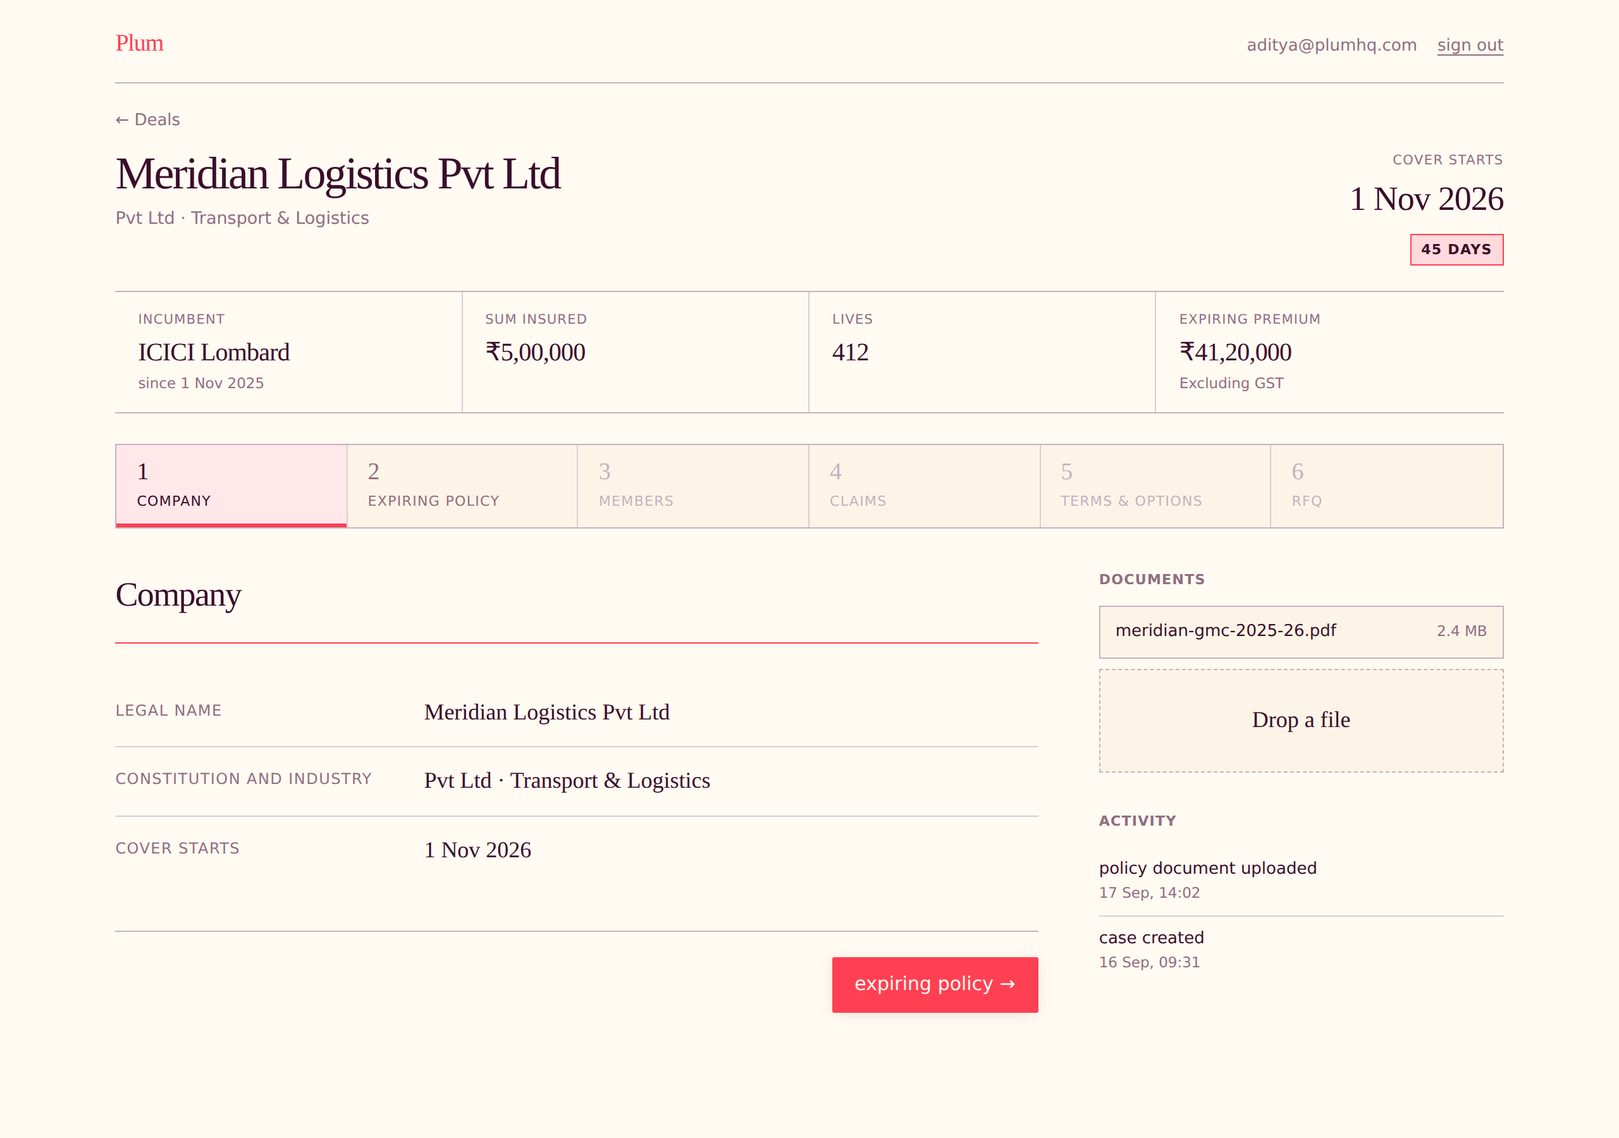
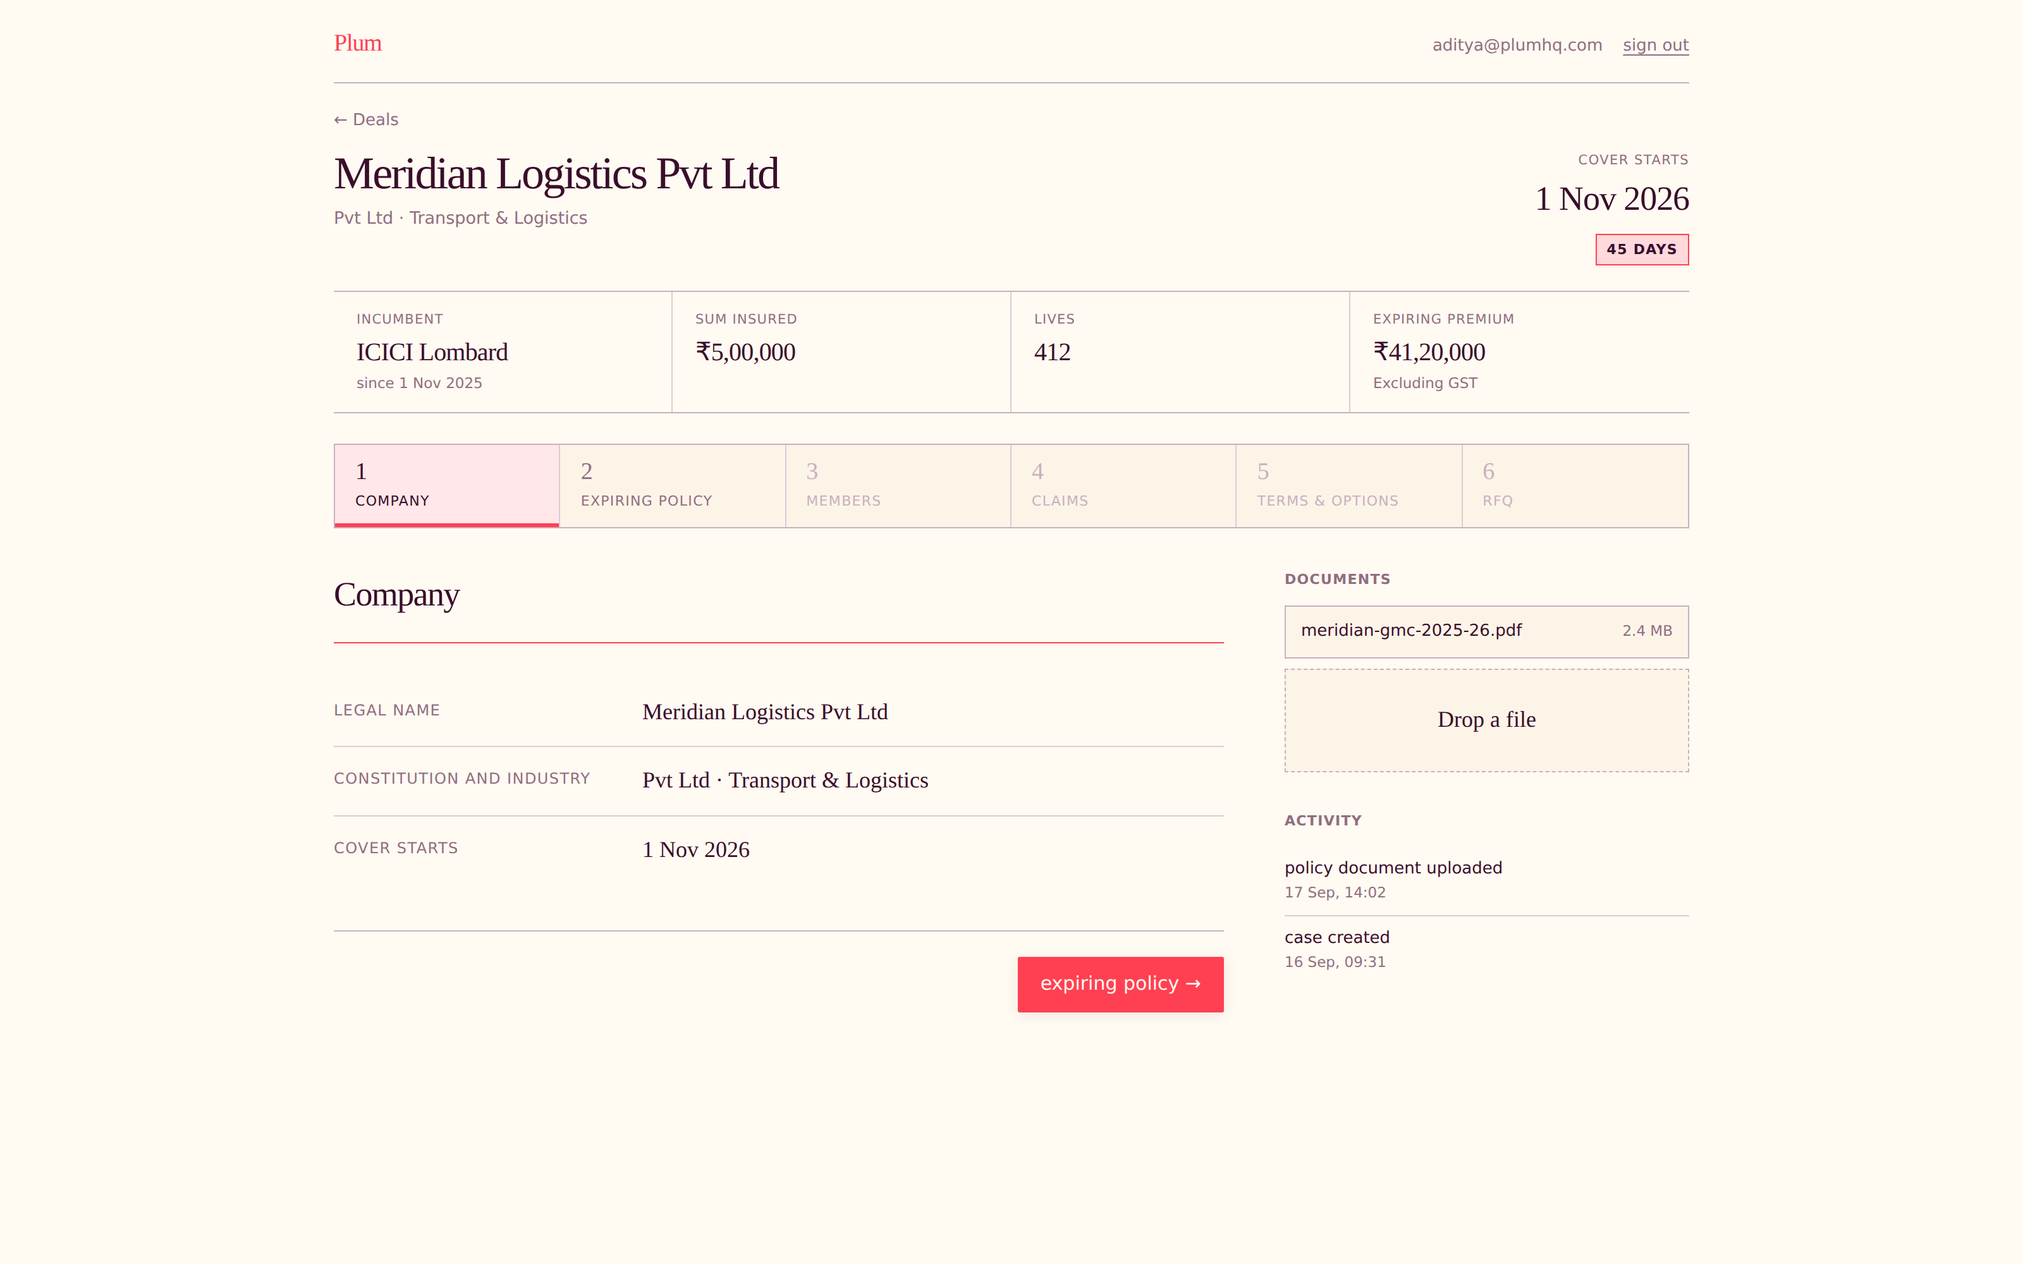
Give the terms step the width its grid and the policy both need
The policy panel was missing from the rendered mockup because a patch to that
HTML matched nothing and failed silently — the file was never updated. The
application code had the panel throughout; the picture was wrong, not the build.
Rewritten wholesale rather than patched, so it cannot happen again quietly.

Fixing the render exposed a real constraint. A benefit label, the expiring value
and one column per option need roughly 790px before the policy is placed beside
them; the standard column left about 700px, so the grid would have scrolled
horizontally from the first option onwards. That is precisely where a value gets
read against the wrong column, which is the misreading this screen exists to
prevent and the reason the whole table is one CSS grid.

So the terms step widens: a 1480px shell and a 420px reference column, enough
for the policy to be readable rather than merely present. Both collapse to a
single column below 1240px.

Claude-Session: https://claude.ai/code/session_01GTNhrhZnfcdGDqUXckdAkA

diff --git a/docs/design-review/05-terms-built.html b/docs/design-review/05-terms-built.html
@@ -1,151 +1,70 @@
-<!doctype html>
-<html lang="en-GB">
-  <head>
-    <meta charset="utf-8" />
-    <link rel="stylesheet" href="../../src/styles/plum.css" />
-    <style>
-      body {
-        padding: 0;
-      }
-    </style>
-  </head>
-  <body>
-    <main class="shell">
-      <header class="masthead">
-        <span class="masthead__mark">Plum</span>
-        <span class="masthead__right"
-          ><span class="masthead__meta">aditya@plumhq.com</span
-          ><span class="masthead__signout">sign out</span></span
-        >
-      </header>
-      <div class="crumb"><a>← Meridian Logistics Pvt Ltd</a></div>
-      <nav class="wiz">
-        <a class="is-done"><span class="wiz__n">1</span><span class="wiz__t">Company</span></a>
-        <a class="is-done"
-          ><span class="wiz__n">2</span><span class="wiz__t">Expiring policy</span></a
-        >
-        <a class="is-done"><span class="wiz__n">3</span><span class="wiz__t">Members</span></a>
-        <a class="is-done"><span class="wiz__n">4</span><span class="wiz__t">Claims</span></a>
-        <a class="is-now"
-          ><span class="wiz__n">5</span><span class="wiz__t">Terms &amp; options</span></a
-        >
-        <a><span class="wiz__n">6</span><span class="wiz__t">RFQ</span></a>
-      </nav>
-      <section class="section">
-        <div class="section__head">
-          <h1>Terms</h1>
-          <span style="font-size: 13px; color: var(--fg-2)">24 of 58 confirmed</span>
-        </div>
-        <div style="margin-top: 24px">
-          <div class="terms">
-            <div
-              class="terms__grid"
-              style="
-                grid-template-columns: minmax(190px, 1.3fr) minmax(150px, 1.4fr) minmax(
-                    150px,
-                    1.4fr
-                  ) minmax(150px, 1.4fr) minmax(150px, 1.4fr);
-              "
-            >
-              <div class="terms__head">
-                <div>Benefit</div>
-                <div>Expiring</div>
-                <div>
-                  Option 1<span class="opt-name">Same as expiring</span
-                  ><button class="terms__rename">rename</button>
-                </div>
-                <div>
-                  Option 2<span class="opt-name">Enhanced maternity</span
-                  ><button class="terms__rename">rename</button>
-                </div>
-                <div>
-                  Option 3<span class="opt-name">Siblings in place of parents</span
-                  ><button class="terms__rename">rename</button>
-                </div>
-              </div>
-
-              <button class="terms__section">
-                <span class="terms__caret">▾</span
-                ><span class="terms__section-name">The basics</span
-                ><span class="terms__section-count">8 benefits · 3 changed</span>
-              </button>
-              <div class="terms__cell terms__cell--label">Members Covered</div>
-              <div class="terms__cell">Employee, Spouse, Children, Parents</div>
-              <div class="terms__cell"><span class="terms__same">same as expiring</span></div>
-              <div class="terms__cell"><span class="terms__same">same as expiring</span></div>
-              <div class="terms__cell terms__cell--changed">
-                Employee, Spouse, Children, Siblings
-              </div>
-              <div class="terms__cell terms__cell--label">LGBTQ Cover</div>
-              <div class="terms__cell">Covered</div>
-              <div class="terms__cell"><span class="terms__same">same as expiring</span></div>
-              <div class="terms__cell"><span class="terms__same">same as expiring</span></div>
-              <div class="terms__cell"><span class="terms__same">same as expiring</span></div>
-              <div class="terms__cell terms__cell--label">Siblings</div>
-              <div class="terms__cell">Not covered</div>
-              <div class="terms__cell"><span class="terms__same">same as expiring</span></div>
-              <div class="terms__cell"><span class="terms__same">same as expiring</span></div>
-              <div class="terms__cell terms__cell--changed">Covered, up to 2</div>
-              <div class="terms__cell terms__cell--label">Age Band</div>
-              <div class="terms__cell">91 days – 80 years</div>
-              <div class="terms__cell"><span class="terms__same">same as expiring</span></div>
-              <div class="terms__cell"><span class="terms__same">same as expiring</span></div>
-              <div class="terms__cell"><span class="terms__same">same as expiring</span></div>
-              <div class="terms__cell terms__cell--label">Max age — Parents</div>
-              <div class="terms__cell">80 years</div>
-              <div class="terms__cell"><span class="terms__same">same as expiring</span></div>
-              <div class="terms__cell terms__cell--changed">85 years</div>
-              <div class="terms__cell"><span class="terms__unset">not applicable</span></div>
-
-              <button class="terms__section">
-                <span class="terms__caret">▾</span
-                ><span class="terms__section-name">Mother &amp; Child</span
-                ><span class="terms__section-count">6 benefits · 2 changed</span>
-              </button>
-              <div class="terms__cell terms__cell--label">Maternity Cover</div>
-              <div class="terms__cell">₹50,000</div>
-              <div class="terms__cell"><span class="terms__same">same as expiring</span></div>
-              <div class="terms__cell terms__cell--changed">₹75,000</div>
-              <div class="terms__cell"><span class="terms__same">same as expiring</span></div>
-              <div class="terms__cell terms__cell--label">Pre and Post Natal Expenses</div>
-              <div class="terms__cell">Within maternity limit</div>
-              <div class="terms__cell"><span class="terms__same">same as expiring</span></div>
-              <div class="terms__cell terms__cell--changed">₹15,000 outside limit</div>
-              <div class="terms__cell"><span class="terms__same">same as expiring</span></div>
-              <div class="terms__cell terms__cell--label">Well Mother / Well Baby</div>
-              <div class="terms__cell">Not covered</div>
-              <div class="terms__cell"><span class="terms__same">same as expiring</span></div>
-              <div class="terms__cell"><span class="terms__same">same as expiring</span></div>
-              <div class="terms__cell"><span class="terms__same">same as expiring</span></div>
-
-              <button class="terms__section">
-                <span class="terms__caret">▸</span
-                ><span class="terms__section-name">Sum insured, limits &amp; copay</span
-                ><span class="terms__section-count">12 benefits · 1 changed · 4 to confirm</span>
-              </button>
-              <button class="terms__section">
-                <span class="terms__caret">▸</span
-                ><span class="terms__section-name">Expenses covered</span
-                ><span class="terms__section-count">9 benefits</span>
-              </button>
-              <button class="terms__section">
-                <span class="terms__caret">▸</span
-                ><span class="terms__section-name">Additional Covers</span
-                ><span class="terms__section-count">11 benefits · 30 to confirm</span>
-              </button>
-            </div>
-          </div>
-        </div>
-        <div class="terms__foot">
-          <span style="font-size: 13px; color: var(--fg-2)"
-            >34 benefits still to confirm before this can go to insurers.</span
-          >
-          <span
-            ><button class="terms__addopt">+ add an option</button>
-            <button class="button" disabled>send to insurers</button></span
-          >
-        </div>
-      </section>
-    </main>
-  </body>
-</html>
+<!doctype html><html lang="en-GB"><head><meta charset="utf-8">
+<link rel="stylesheet" href="../../src/styles/plum.css"></head><body>
+<main class="shell shell--wide">
+  <header class="masthead"><span class="masthead__mark">Plum</span>
+    <span class="masthead__right"><span class="masthead__meta">aditya@plumhq.com</span><span class="masthead__signout">sign out</span></span>
+  </header>
+  <div class="crumb"><a>← Deals</a></div>
+  <div class="deal-hero">
+    <div><h1>Meridian Logistics Pvt Ltd</h1><p class="deal-hero__what">Pvt Ltd · Transport &amp; Logistics</p></div>
+    <div class="deal-hero__start"><div class="label">Cover starts</div><div class="date">1 Nov 2026</div>
+      <div style="margin-top:5px"><span class="chip chip--waiting">45 days</span></div></div>
+  </div>
+  <div class="facts">
+    <div class="facts__item"><div class="facts__label">Incumbent</div><div class="facts__value">ICICI Lombard</div><div class="facts__note">since 1 Nov 2025</div></div>
+    <div class="facts__item"><div class="facts__label">Sum insured</div><div class="facts__value">₹5,00,000</div></div>
+    <div class="facts__item"><div class="facts__label">Lives</div><div class="facts__value">412</div></div>
+    <div class="facts__item"><div class="facts__label">Expiring premium</div><div class="facts__value">₹41,20,000</div><div class="facts__note">Excluding GST</div></div>
+  </div>
+  <nav class="wiz">
+    <a class="is-done"><span class="wiz__n">1</span><span class="wiz__t">Company</span></a>
+    <a class="is-done"><span class="wiz__n">2</span><span class="wiz__t">Expiring policy</span></a>
+    <a class="is-done"><span class="wiz__n">3</span><span class="wiz__t">Members</span></a>
+    <a class="is-done"><span class="wiz__n">4</span><span class="wiz__t">Claims</span></a>
+    <a class="is-now"><span class="wiz__n">5</span><span class="wiz__t">Terms &amp; options</span></a>
+    <span class="wiz__locked"><span class="wiz__n">6</span><span class="wiz__t">RFQ</span></span>
+  </nav>
+  <div class="step step--wide-aside">
+   <div class="step__main">
+    <h2>Terms and options</h2><hr class="section__rule">
+    <div class="terms"><div class="terms__grid" style="grid-template-columns:minmax(190px,1.3fr) minmax(150px,1.4fr) minmax(150px,1.4fr) minmax(150px,1.4fr) minmax(150px,1.4fr)">
+      <div class="terms__head"><div>Benefit</div><div>Expiring</div><div>Option 1<span class="opt-name">Same as expiring</span><button class="terms__rename">rename</button></div><div>Option 2<span class="opt-name">Enhanced maternity</span><button class="terms__rename">rename</button></div><div>Option 3<span class="opt-name">Siblings in place of parents</span><button class="terms__rename">rename</button></div></div>
+      <button class="terms__section"><span class="terms__caret">▾</span><span class="terms__section-name">The basics</span><span class="terms__section-count">8 benefits · 3 changed</span></button>
+        <div class="terms__cell terms__cell--label">Members Covered</div><div class="terms__cell">Employee, Spouse, Children, Parents</div><div class="terms__cell"><span class="terms__same">same as expiring</span></div><div class="terms__cell"><span class="terms__same">same as expiring</span></div><div class="terms__cell terms__cell--changed">Employee, Spouse, Children, Siblings</div>
+        <div class="terms__cell terms__cell--label">LGBTQ Cover</div><div class="terms__cell">Covered</div><div class="terms__cell"><span class="terms__same">same as expiring</span></div><div class="terms__cell"><span class="terms__same">same as expiring</span></div><div class="terms__cell"><span class="terms__same">same as expiring</span></div>
+        <div class="terms__cell terms__cell--label">Live-in Partner Cover</div><div class="terms__cell">Covered</div><div class="terms__cell"><span class="terms__same">same as expiring</span></div><div class="terms__cell"><span class="terms__same">same as expiring</span></div><div class="terms__cell"><span class="terms__same">same as expiring</span></div>
+        <div class="terms__cell terms__cell--label">Siblings</div><div class="terms__cell">Not covered</div><div class="terms__cell"><span class="terms__same">same as expiring</span></div><div class="terms__cell"><span class="terms__same">same as expiring</span></div><div class="terms__cell terms__cell--changed">Covered, up to 2</div>
+        <div class="terms__cell terms__cell--label">Age Band</div><div class="terms__cell">91 days – 80 years</div><div class="terms__cell"><span class="terms__same">same as expiring</span></div><div class="terms__cell"><span class="terms__same">same as expiring</span></div><div class="terms__cell"><span class="terms__same">same as expiring</span></div>
+        <div class="terms__cell terms__cell--label">Max age — Employee / Spouse</div><div class="terms__cell">70 years</div><div class="terms__cell"><span class="terms__same">same as expiring</span></div><div class="terms__cell"><span class="terms__same">same as expiring</span></div><div class="terms__cell"><span class="terms__same">same as expiring</span></div>
+        <div class="terms__cell terms__cell--label">Max age — Children</div><div class="terms__cell">25 years</div><div class="terms__cell"><span class="terms__same">same as expiring</span></div><div class="terms__cell"><span class="terms__same">same as expiring</span></div><div class="terms__cell"><span class="terms__same">same as expiring</span></div>
+        <div class="terms__cell terms__cell--label">Max age — Parents</div><div class="terms__cell">80 years</div><div class="terms__cell"><span class="terms__same">same as expiring</span></div><div class="terms__cell terms__cell--changed">85 years</div><div class="terms__cell"><span class="terms__same">same as expiring</span></div>
+      <button class="terms__section"><span class="terms__caret">▾</span><span class="terms__section-name">Mother &amp; Child</span><span class="terms__section-count">6 benefits · 2 changed</span></button>
+        <div class="terms__cell terms__cell--label">Maternity Cover</div><div class="terms__cell">₹50,000</div><div class="terms__cell"><span class="terms__same">same as expiring</span></div><div class="terms__cell terms__cell--changed">₹75,000</div><div class="terms__cell"><span class="terms__same">same as expiring</span></div>
+        <div class="terms__cell terms__cell--label">No. of Children within Maternity</div><div class="terms__cell">2</div><div class="terms__cell"><span class="terms__same">same as expiring</span></div><div class="terms__cell"><span class="terms__same">same as expiring</span></div><div class="terms__cell"><span class="terms__same">same as expiring</span></div>
+        <div class="terms__cell terms__cell--label">Pre and Post Natal Expenses</div><div class="terms__cell">Within maternity limit</div><div class="terms__cell"><span class="terms__same">same as expiring</span></div><div class="terms__cell terms__cell--changed">₹15,000 outside limit</div><div class="terms__cell"><span class="terms__same">same as expiring</span></div>
+        <div class="terms__cell terms__cell--label">Well Mother / Well Baby</div><div class="terms__cell">Not covered</div><div class="terms__cell"><span class="terms__same">same as expiring</span></div><div class="terms__cell"><span class="terms__same">same as expiring</span></div><div class="terms__cell"><span class="terms__same">same as expiring</span></div>
+        <div class="terms__cell terms__cell--label">New Born from Day 1</div><div class="terms__cell">Covered</div><div class="terms__cell"><span class="terms__same">same as expiring</span></div><div class="terms__cell"><span class="terms__same">same as expiring</span></div><div class="terms__cell"><span class="terms__same">same as expiring</span></div>
+        <div class="terms__cell terms__cell--label">Infertility Treatments</div><div class="terms__cell">Not covered</div><div class="terms__cell"><span class="terms__same">same as expiring</span></div><div class="terms__cell"><span class="terms__same">same as expiring</span></div><div class="terms__cell"><span class="terms__same">same as expiring</span></div>
+      <button class="terms__section"><span class="terms__caret">▸</span><span class="terms__section-name">Sum insured, limits &amp; copay</span><span class="terms__section-count">12 benefits · 1 changed · 4 to confirm</span></button>
+      <button class="terms__section"><span class="terms__caret">▸</span><span class="terms__section-name">Expenses covered</span><span class="terms__section-count">9 benefits</span></button>
+      <button class="terms__section"><span class="terms__caret">▸</span><span class="terms__section-name">Additional Covers</span><span class="terms__section-count">11 benefits · 30 to confirm</span></button>
+    </div></div>
+    <div class="terms__foot"><button class="terms__addopt">+ add an option</button></div>
+    <div class="step-nav">
+      <a class="button button--secondary">← back</a>
+      <div style="display:flex;align-items:center;gap:16px">
+        <span style="font-size:13px;color:var(--fg-2)">34 of 58 still to confirm</span>
+        <button class="button" disabled>build the RFQ →</button>
+      </div>
+    </div>
+   </div>
+   <aside class="step__aside">
+     <div class="aside-block"><h3>Expiring policy</h3>
+       <div class="pdf-panel">
+         <div class="pdf-panel__bar"><span>meridian-gmc-2025-26.pdf</span><a>open</a></div>
+         <div class="pdf-panel__empty">The policy renders here, beside the terms it describes — so checking a clause is a glance rather than a trip to the documents screen.</div>
+       </div>
+     </div>
+   </aside>
+  </div>
+</main></body></html>

diff --git a/src/components/deal-shell.tsx b/src/components/deal-shell.tsx
@@ -45,6 +45,7 @@ export function DealShell({
   nextLabel = 'next',
   nextDisabled = false,
   nextNote,
+  wideAside = false,
 }: {
   deal: DealHeader;
   currentPhase: number;
@@ -58,6 +59,8 @@ export function DealShell({
   nextLabel?: string;
   nextDisabled?: boolean;
   nextNote?: string;
+  /** Steps whose reference column carries a document rather than a list. */
+  wideAside?: boolean;
 }) {
   const chip = coverStartChip(deal.cover_start_date);
 
@@ -137,7 +140,7 @@ export function DealShell({
         })}
       </nav>
 
-      <div className={aside ? 'step' : 'step step--full'}>
+      <div className={aside ? (wideAside ? 'step step--wide-aside' : 'step') : 'step step--full'}>
         <div className="step__main">
           <h2>{title}</h2>
           <hr className="section__rule" />

diff --git a/src/app/deals/[id]/terms/page.tsx b/src/app/deals/[id]/terms/page.tsx
@@ -84,7 +84,7 @@ export default async function TermsPage({ params }: { params: { id: string } }) 
   const policyDoc = docs.data?.[0] ?? null;
 
   return (
-    <main className="shell">
+    <main className="shell shell--wide">
       <Masthead meta={session.email} />
 
       <DealShell
@@ -96,6 +96,7 @@ export default async function TermsPage({ params }: { params: { id: string } }) 
         next={stageHref(header.id, 5)}
         nextLabel="build the RFQ"
         nextDisabled={outstanding > 0}
+        wideAside
         nextNote={
           outstanding > 0
             ? `${outstanding} of ${rows.length} still to confirm`

diff --git a/src/styles/plum.css b/src/styles/plum.css
@@ -985,3 +985,23 @@ input[type='text'] {
   font-size: 18px;
   color: var(--fg-1);
 }
+
+/*
+ * The terms step needs more width than the rest: a benefit label, the expiring
+ * value and one column per option, beside the policy itself. At the standard
+ * column width the grid would scroll horizontally from the first option, which
+ * is exactly where misreading a row against the wrong column starts.
+ */
+.shell--wide {
+  max-width: 1480px;
+}
+
+.step--wide-aside {
+  grid-template-columns: minmax(0, 1fr) 420px;
+}
+
+@media (max-width: 1240px) {
+  .step--wide-aside {
+    grid-template-columns: minmax(0, 1fr);
+  }
+}
